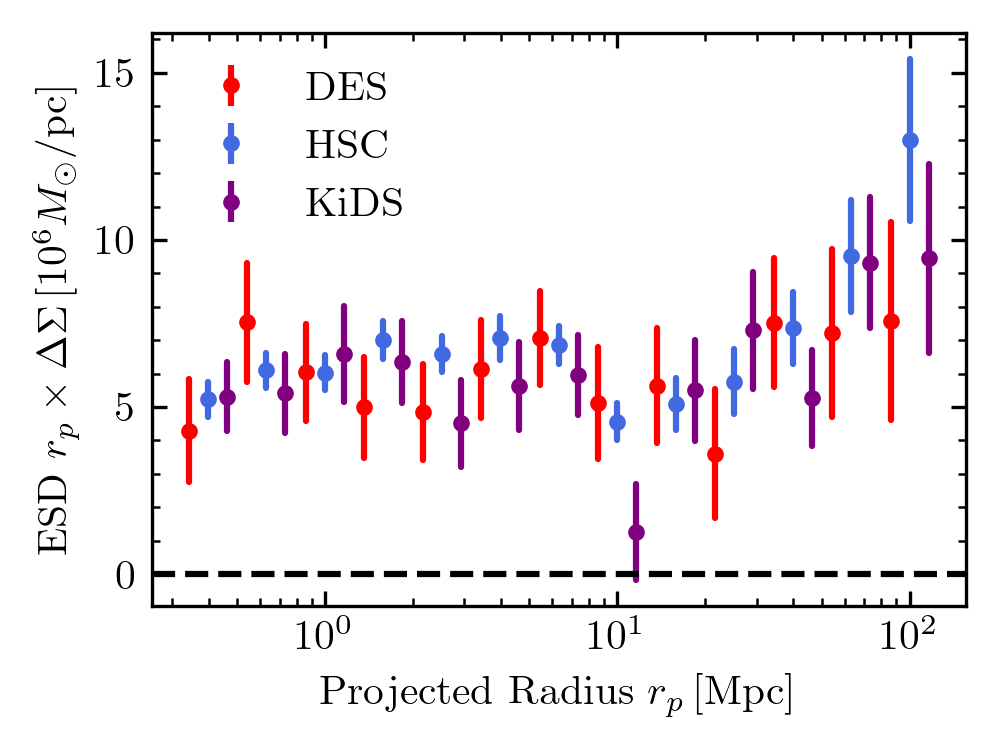
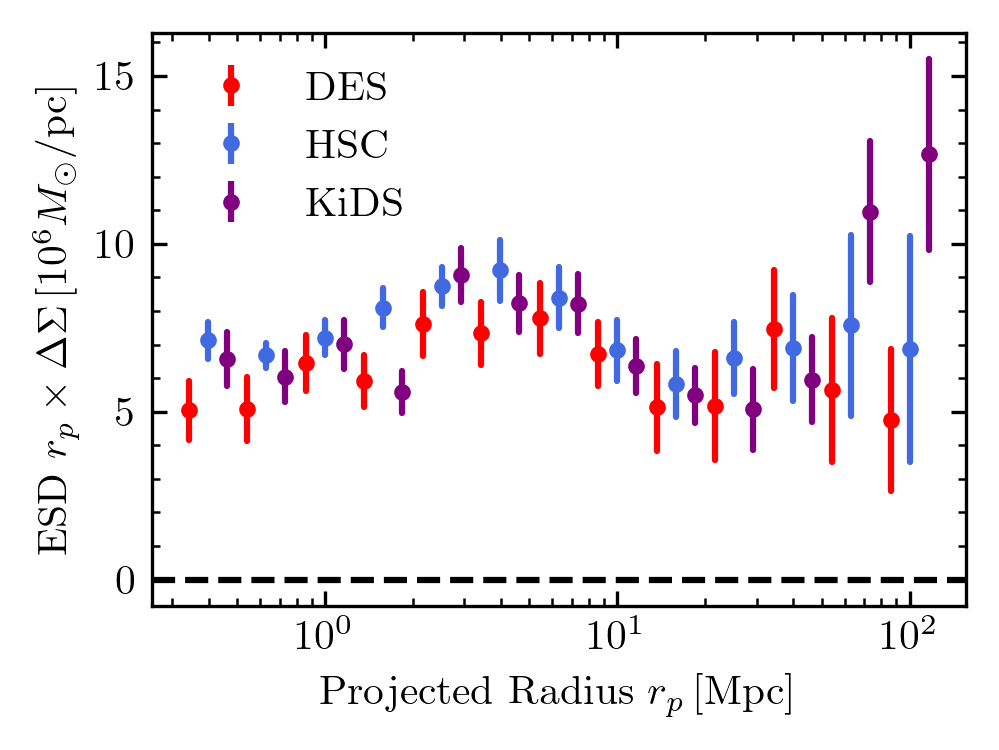
added tutorial

diff --git a/tutorial/compute.py b/tutorial/compute.py
@@ -1,0 +1,159 @@
+import fitsio
+import argparse
+import numpy as np
+import multiprocessing
+from astropy.table import Table, vstack, hstack, join
+from dsigma.helpers import dsigma_table
+from dsigma.precompute import add_maximum_lens_redshift, add_precompute_results
+from dsigma.jackknife import add_continous_fields, jackknife_field_centers
+from dsigma.jackknife import add_jackknife_fields, jackknife_resampling
+from dsigma.stacking import excess_surface_density
+from dsigma.surveys import des, kids
+from astropy.cosmology import Planck15
+
+parser = argparse.ArgumentParser(
+    description='Calculate the lensing signal around BOSS galaxies.')
+
+parser.add_argument('survey', help='the lensing survey')
+args = parser.parse_args()
+
+cosmology = Planck15
+rp_bins = np.logspace(-1, 1.6, 14)
+z_bins = np.array([0.15, 0.31, 0.43, 0.54, 0.70])
+
+table_l = vstack([Table.read('galaxy_DR12v5_CMASSLOWZTOT_South.fits.gz'),
+                  Table.read('galaxy_DR12v5_CMASSLOWZTOT_North.fits.gz')])
+table_l = dsigma_table(table_l, 'lens', z='Z', ra='RA', dec='DEC',
+                       w_sys=1)
+table_l = table_l[table_l['z'] >= np.amin(z_bins)]
+
+table_r = vstack([Table.read('random0_DR12v5_CMASSLOWZTOT_South.fits.gz'),
+                  Table.read('random0_DR12v5_CMASSLOWZTOT_North.fits.gz')])
+table_r = dsigma_table(table_r, 'lens', z='Z', ra='RA', dec='DEC',
+                       w_sys=1)[::5]
+table_r = table_r[table_r['z'] >= np.amin(z_bins)]
+
+if args.survey.lower() == 'des':
+
+    table_s = []
+
+    fname_list = ['mcal-y1a1-combined-riz-unblind-v4-matched.fits',
+                  'y1a1-gold-mof-badregion_BPZ.fits',
+                  'mcal-y1a1-combined-griz-blind-v3-matched_BPZbase.fits']
+    columns_list = [['e1', 'e2', 'R11', 'R12', 'R21', 'R22', 'ra', 'dec',
+                     'flags_select', 'flags_select_1p', 'flags_select_1m',
+                     'flags_select_2p', 'flags_select_2m'], ['Z_MC'],
+                    ['MEAN_Z']]
+
+    for fname, columns in zip(fname_list, columns_list):
+        table_s.append(Table(fitsio.read(fname, columns=columns),
+                             names=columns))
+
+    table_s = hstack(table_s)
+    table_s = dsigma_table(table_s, 'source', survey='DES')
+    table_s['z_bin'] = des.tomographic_redshift_bin(table_s['z'])
+
+    for z_bin in range(4):
+        use = table_s['z_bin'] == z_bin
+        R_sel = des.selection_response(table_s[use])
+        table_s['R_11'][use] += 0.5 * np.sum(np.diag(R_sel))
+        table_s['R_22'][use] += 0.5 * np.sum(np.diag(R_sel))
+
+    table_s = table_s[(table_s['flags_select'] == 0) &
+                      (table_s['z_bin'] != -1)]
+
+    table_c = table_s['z', 'z_true', 'w']
+    table_c['w_sys'] = 0.5 * (table_s['R_11'] + table_s['R_22'])
+
+    precompute_kwargs = {'table_c': table_c}
+    stacking_kwargs = {'tensor_shear_response_correction': True,
+                       'photo_z_dilution_correction': True}
+
+elif args.survey.lower() == 'hsc':
+
+    table_s = Table.read('hsc_s16a_lensing.fits')
+    table_s = dsigma_table(table_s, 'source', survey='HSC')
+
+    table_c_1 = vstack([
+        Table.read('pdf-s17a_wide-9812.cat.fits'),
+        Table.read('pdf-s17a_wide-9813.cat.fits')])
+    for key in table_c_1.colnames:
+        table_c_1.rename_column(key, key.lower())
+    table_c_2 = Table.read('Afterburner_reweighted_COSMOS_photoz_FDFC.fits')
+    table_c_2.rename_column('S17a_objid', 'id')
+    table_c = join(table_c_1, table_c_2, keys='id')
+    table_c = dsigma_table(table_c, 'calibration', w_sys='SOM_weight',
+                           w='weight_source', z_true='COSMOS_photoz',
+                           survey='HSC')
+
+    precompute_kwargs = {'table_c': table_c}
+    stacking_kwargs = {'scalar_shear_response_correction': True,
+                       'shear_responsivity_correction': True,
+                       'photo_z_dilution_correction': True,
+                       'hsc_selection_bias_correction': True}
+
+elif args.survey.lower() == 'kids':
+
+    table_s = Table.read('KiDS_DR4.1_ugriZYJHKs_SOM_gold_WL_cat.fits')
+    table_s = dsigma_table(table_s, 'source', survey='KiDS')
+
+    table_s['z_bin'] = kids.tomographic_redshift_bin(
+        table_s['z'], version='DR4')
+    table_s['m'] = kids.multiplicative_shear_bias(table_s['z'], version='DR4')
+    table_s = table_s[table_s['z_bin'] >= 0]
+    table_s['z'] = np.array([0.1, 0.3, 0.5, 0.7, 0.9])[table_s['z_bin']]
+
+    fname = ('K1000_NS_V1.0.0A_ugriZYJHKs_photoz_SG_mask_LF_svn_309c_2Dbins_' +
+             'v2_SOMcols_Fid_blindC_TOMO{}_Nz.asc')
+    table_n = Table()
+    table_n['z'] = np.genfromtxt(fname.format(1))[:, 0] + 0.025
+    table_n['n'] = np.vstack(
+        [np.genfromtxt(fname.format(i + 1))[:, 1] for i in range(5)]).T
+
+    precompute_kwargs = {'table_n': table_n}
+    stacking_kwargs = {'scalar_shear_response_correction': True}
+
+else:
+    raise ValueError("Survey must be 'des', 'hsc' or 'kids'.")
+
+add_maximum_lens_redshift(table_s, dz_min=0.1)
+if 'table_c' in precompute_kwargs.keys():
+    add_maximum_lens_redshift(table_c, dz_min=0.1)
+
+precompute_kwargs.update({
+    'n_jobs': multiprocessing.cpu_count(), 'comoving': True,
+    'cosmology': cosmology})
+
+# Pre-compute the signal.
+add_precompute_results(table_l, table_s, rp_bins, **precompute_kwargs)
+add_precompute_results(table_r, table_s, rp_bins, **precompute_kwargs)
+
+# Add jackknife fields.
+table_l['n_s_tot'] = np.sum(table_l['sum 1'], axis=1)
+table_l = table_l[table_l['n_s_tot'] > 0]
+
+table_r['n_s_tot'] = np.sum(table_r['sum 1'], axis=1)
+table_r = table_r[table_r['n_s_tot'] > 0]
+
+add_continous_fields(table_l, distance_threshold=2)
+centers = jackknife_field_centers(table_l, 100, weight='n_s_tot')
+add_jackknife_fields(table_l, centers)
+add_jackknife_fields(table_r, centers)
+
+# Stack the signal.
+stacking_kwargs['random_subtraction'] = True
+
+for lens_bin in range(len(z_bins) - 1):
+    mask_l = ((z_bins[lens_bin] <= table_l['z']) &
+              (table_l['z'] < z_bins[lens_bin + 1]))
+    mask_r = ((z_bins[lens_bin] <= table_r['z']) &
+              (table_r['z'] < z_bins[lens_bin + 1]))
+
+    stacking_kwargs['table_r'] = table_r[mask_r]
+    stacking_kwargs['return_table'] = True
+    result = excess_surface_density(table_l[mask_l], **stacking_kwargs)
+    stacking_kwargs['return_table'] = False
+    result['ds_err'] = np.sqrt(np.diag(jackknife_resampling(
+        excess_surface_density, table_l[mask_l], **stacking_kwargs)))
+
+    result.write('{}_{}.csv'.format(args.survey.lower(), lens_bin))

diff --git a/tutorial/plot.py b/tutorial/plot.py
@@ -1,0 +1,26 @@
+import numpy as np
+import matplotlib.pyplot as plt
+from astropy.table import Table
+
+survey_list = ['DES', 'HSC', 'KiDS']
+color_list = ['red', 'royalblue', 'purple']
+offset_list = [0, 0.15, 0.30]
+
+for survey, color, offset in zip(survey_list, color_list, offset_list):
+    table = Table.read('{}_0.csv'.format(survey.lower()))
+
+    rp = table['rp']
+
+    plotline, caps, barlinecols = plt.errorbar(
+        rp * np.exp(1 + offset), rp * table['ds'],
+        yerr=table['ds_err'] * rp, fmt='.', color=color, label=survey)
+    plt.setp(barlinecols[0], capstyle='round')
+
+plt.axhline(0, ls='--', color='black')
+plt.legend(loc='best', frameon=False)
+plt.xscale('log')
+
+plt.xlabel(r'Projected Radius $r_p \, [\mathrm{Mpc}]$')
+plt.ylabel(r'ESD $r_p \times \Delta \Sigma \, [10^6 M_\odot / \mathrm{pc}]$')
+plt.tight_layout(pad=0.8)
+plt.savefig('plot.png', dpi=300)

diff --git a/README.md b/README.md
@@ -2,9 +2,9 @@
 
 
 [![Documentation Status](https://readthedocs.org/projects/dsigma/badge/?version=latest)](https://dsigma.readthedocs.io/en/latest/)
-[![License: MIT](https://img.shields.io/badge/License-MIT-blue.svg)](https://raw.githubusercontent.com/johannesulf/dsigma/master/LICENSE)
+[![License: MIT](https://img.shields.io/badge/License-MIT-blue.svg)](https://raw.githubusercontent.com/johannesulf/dsigma/main/LICENSE)
 
-![plot](https://raw.githubusercontent.com/johannesulf/dsigma/dsigma_dev/docs/plot.png)
+![plot](https://raw.githubusercontent.com/johannesulf/dsigma/main/docs/plot.png)
 
 `dsigma` is an easy-to-use python package for analyzing galaxy-galaxy lensing.
 It has a broadly applicable API and is optimized for computational efficiency.
